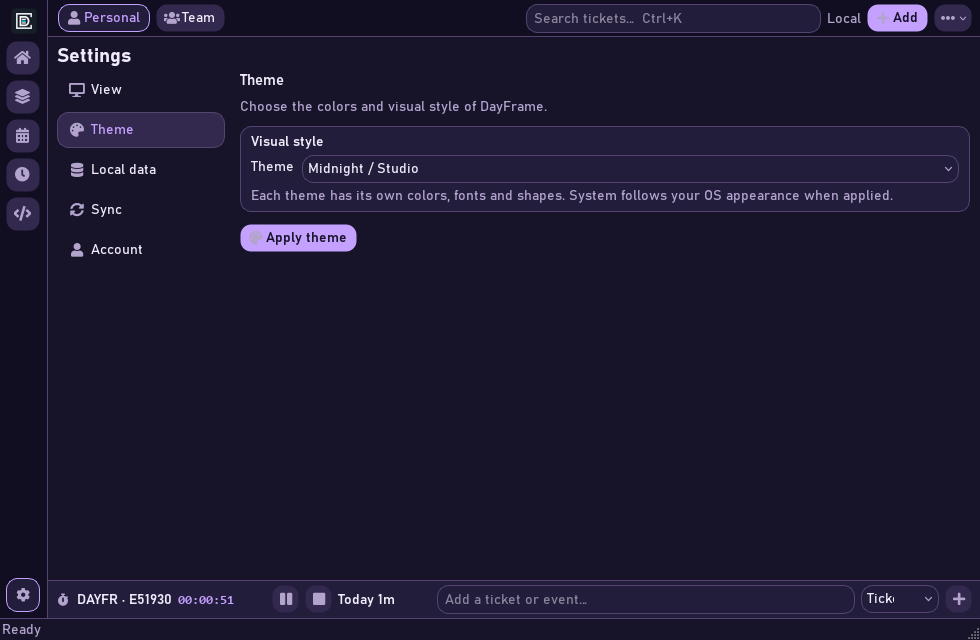
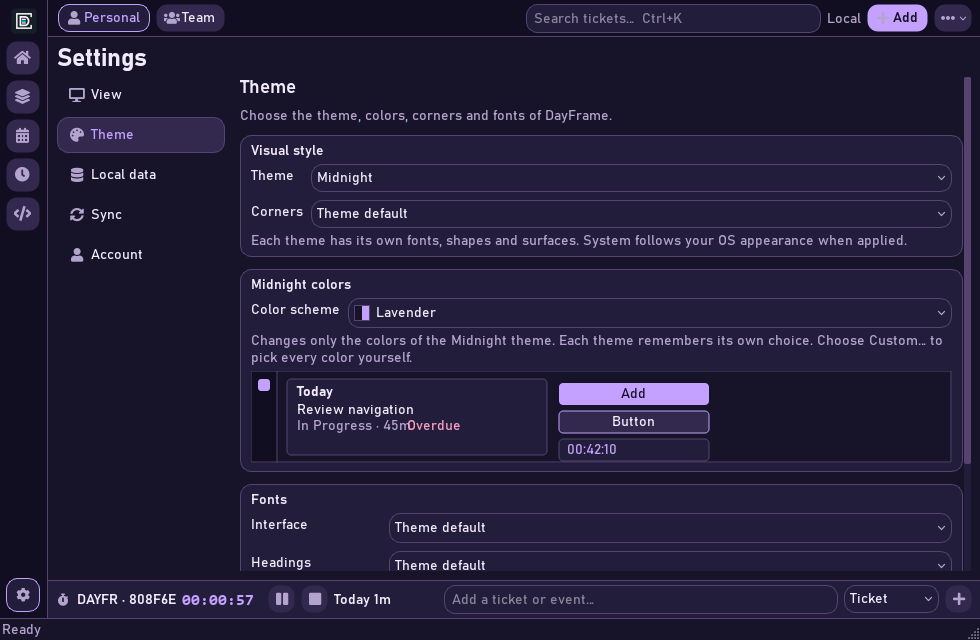
Record the verified DayFrame 0.6.0 release
The Windows portable bundle was built from dce8dc2 with Python 3.13.5
and PyInstaller 6.22.3. All 106 source tests passed, the packaged smoke
check captured 97 screens with a fresh profile, and a profile created
by 0.5.2 opened in 0.6.0 with its sign-in, records and theme intact.
The reference screenshots are refreshed from that packaged run.

No installer was built because NSIS is not installed on this machine.

diff --git a/docs/operations/RELEASES.md b/docs/operations/RELEASES.md
@@ -38,17 +38,18 @@ An explicitly requested validation build stays in dist/build output and does not
 
 | Item | Value |
 |---|---|
-| Version | 0.5.2 |
-| Packaged date | 2026-11-05 |
-| Source commit | 277bb2b2e8ad80732bca5ef1f5d36a3999f01394 |
-| Windows artifacts | release/native-0.5.2/DayFrame/ and DayFrame-Setup-0.5.2.exe on the development machine |
-| Verification | 77 Windows source tests; 61 portable and 61 extracted-installer UI smoke screens; all 881 installer payload files matched the bundle |
-| Build tools | Python 3.14.3, PyInstaller 6.22.3, portable NSIS toolset nsis@2.0.4 |
-| Installer SHA-256 | 353ff66fc8468c454117468d509544052a8fcc0b09325e4647e247b9855714fd |
-| Source review and CI | [Release pull request #1](https://github.com/TylerFreemont0712/DayFrame/pull/1) |
+| Version | 0.6.0 |
+| Packaged date | 2026-11-08 |
+| Source commit | dce8dc20e341f6e35c6aba5aa7fc4ca515e7b721 |
+| Windows artifacts | release/native-0.6.0/DayFrame/ (portable, 871 files) with SHA256SUMS.txt and verification.json, on the development machine |
+| Verification | 106 Windows source tests; 97-screen packaged UI smoke check with a fresh profile; a 0.5.2 profile opened in 0.6.0 with its remembered sign-in, records and theme, and moved from 100% to 90% text |
+| Build tools | Python 3.13.5, PyInstaller 6.22.3 |
+| DayFrame.exe SHA-256 | 1322b1d5bcac956b21dc2b4840f27982a24b6a4c108377a677e4a06864ed3a21 |
+| Windows installer | Not built for 0.6.0: NSIS is not installed on this machine. The 0.5.2 installer remains the last one built |
+| Source review and CI | Release pull request from the release-0.6.0 branch |
 | Linux Mint | The owner's exact installation has not been verified |
 | GitHub publication | No GitHub Release or release tag created for this package |
 
-The build commit identifies the packaged source. Binaries and test profiles are excluded from Git. verification.json and SHA256SUMS.txt accompany the local release. Current packaged UI references are in docs/screenshots/current/.
+The build commit identifies the packaged source. Binaries and test profiles are excluded from Git. verification.json and SHA256SUMS.txt (one hash per bundle file) accompany the local release. Current packaged UI references are in [docs/screenshots/current/](../screenshots/current/).
 
-The installer payload was extracted and launched against an isolated profile; this check does not install into the owner's application directory or alter the live profile. The installer remains unsigned.
+This package was built with Python 3.13, which the project supports (3.12–3.14); earlier packages used 3.14. The upgrade check created a profile with the 0.5.2 source and opened it with 0.6.0 against an isolated folder; it did not touch the live profile.

diff --git a/docs/status/CURRENT_STATUS.md b/docs/status/CURRENT_STATUS.md
@@ -41,6 +41,8 @@ The cleanup release passed 58 Windows tests and a 19-screen packaged UI smoke ch
 
 The 0.5.2 release passed all 77 Windows source tests. Coverage includes saved-stage compatibility, shared status labels, Home grouping, Kanban previews/cancellation/Undo, prefix-only project colors and contrast, title containment and Details navigation. The Windows portable bundle and extracted installer payload each passed the expanded 61-screen smoke check using isolated profiles. All 881 installer payload files matched the bundle, including the supplied NSIS license notice. The verified package is now the local release used by Start DayFrame.cmd; see [RELEASES.md](../operations/RELEASES.md) for its build commit and checksum.
 
+The 0.6.0 release passed all 106 Windows source tests, including new coverage for preferences validation, custom and advanced colors, the color wheel, fonts and sizes, the time zone picker and world clocks, the one-time move to 90% text, bottom-bar control widths and all-day chip fitting. The Windows portable bundle passed a 97-screen packaged smoke check covering all seven themes at both window sizes, and a profile created by 0.5.2 opened in 0.6.0 with its sign-in, records and theme. No 0.6.0 installer was built because NSIS is not installed on the build machine; see [RELEASES.md](../operations/RELEASES.md).
+
 Seven Settings tests cover category and keyboard navigation, independent saves, invalid preference retention, field persistence, existing data/sync/account actions and conflict updates. Packaged layout checks cover all four themes, both window sizes and 100–125% text. Source checks also cover long conflict descriptions. Windows/Ubuntu source CI is linked from the release pull request. Linux Mint has not been verified.
 
 The Windows installer is unsigned. Ubuntu CI does not verify the owner's exact Linux Mint installation. No hub/service/firewall or external integration is installed by source setup.
